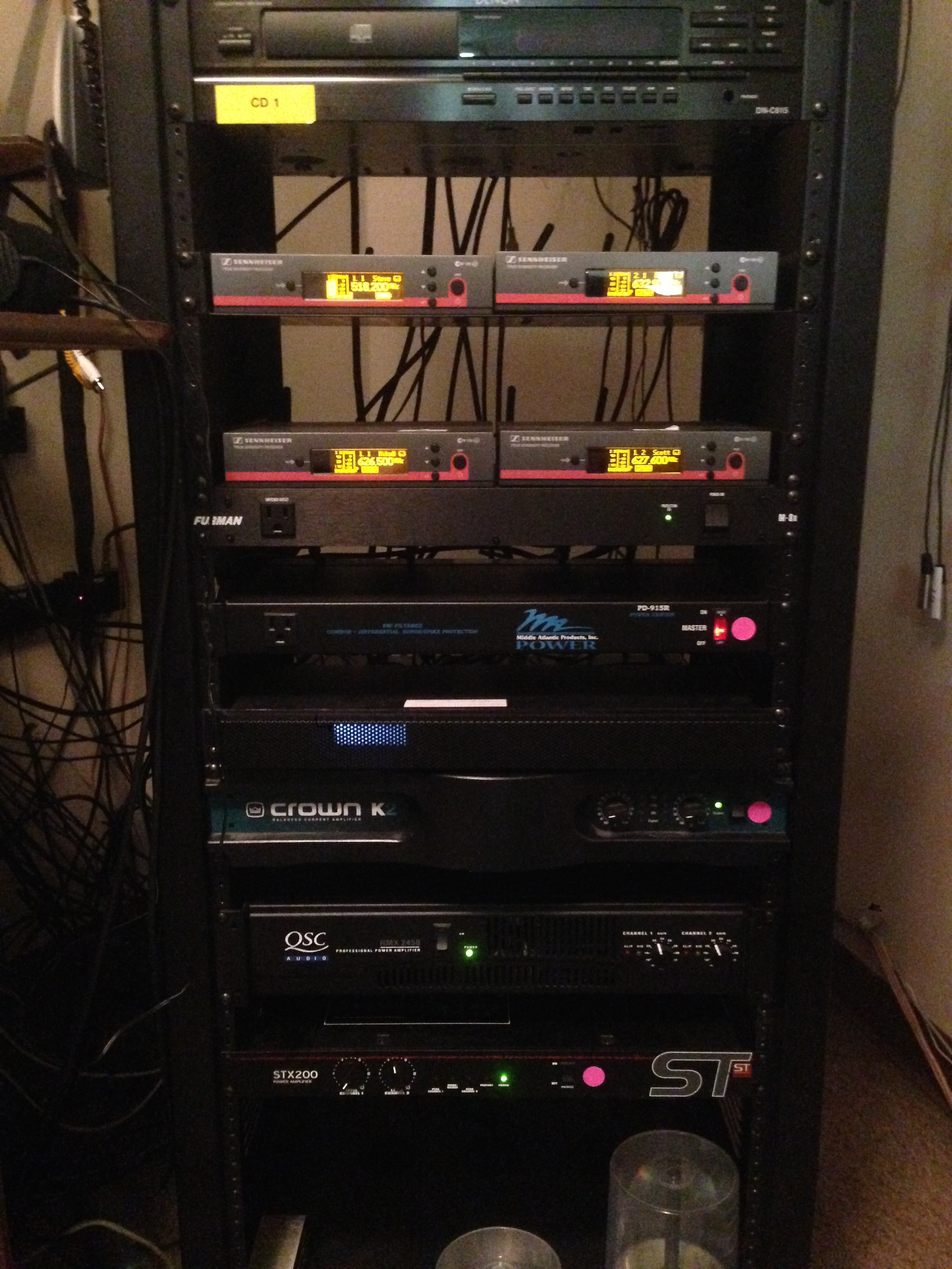
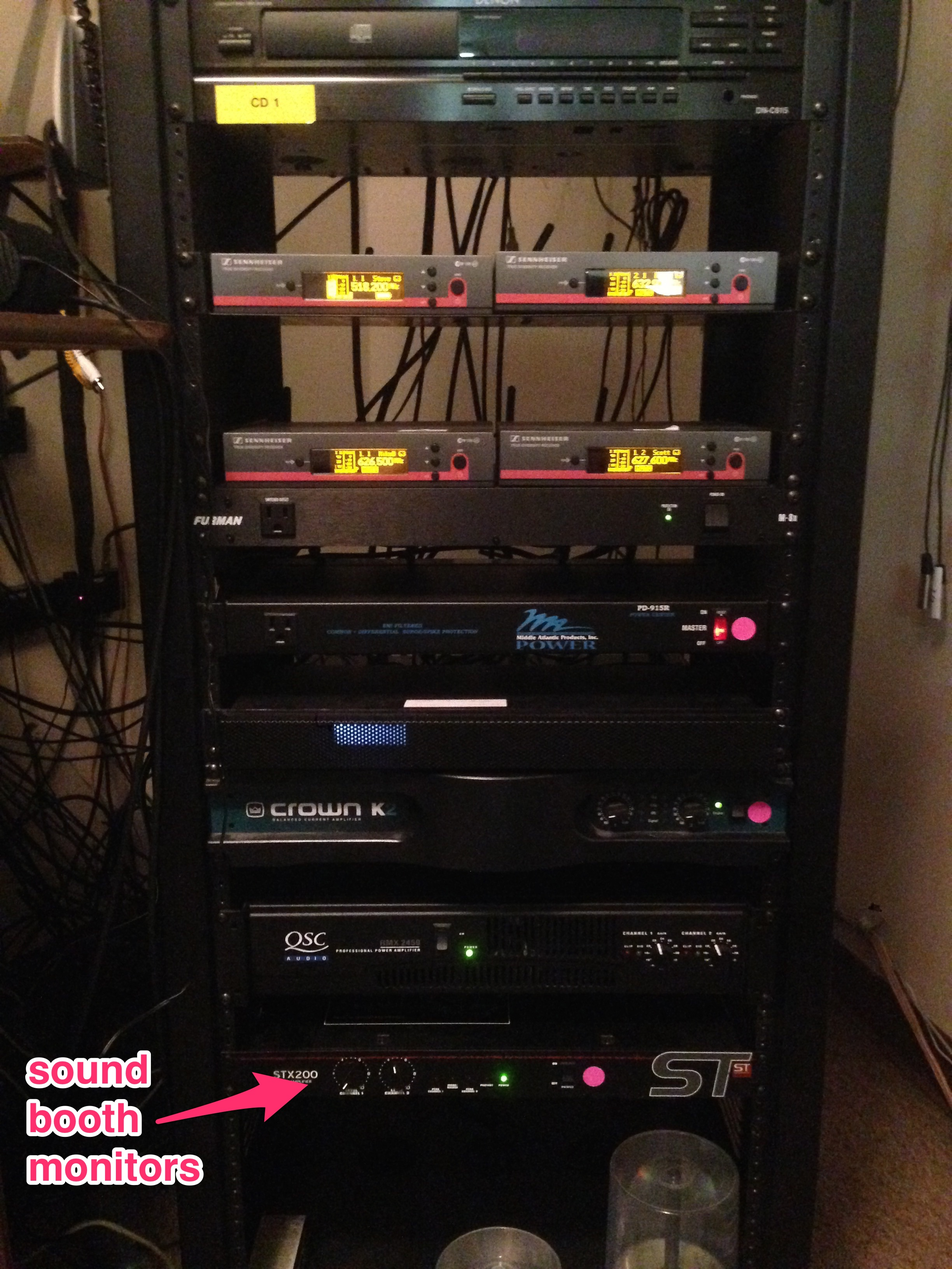
Add an "audio basics" manual

Changed region(s): [[0.031, 0.8125, 0.2173, 0.9375], [0.2173, 0.8438, 0.3105, 0.875]]

diff --git a/_manuals/sound-board.md b/_manuals/sound-board.md
@@ -1,0 +1,25 @@
+---
+title: "Audio basics"
+---
+
+## Sound Board
+
+We have a Mackie 1604-VLZ PRO sound board ([pdf manual](http://www.mackie.com/pdf/1604vlzpro_om.pdf)).
+The sound board controls volume to the camera, the stage monitors, the booth monitors, and the main speakers.
+
+<img src="/images/sound-board.jpg" class="img-responsive">
+
+The aux lines are connected as follows:
+
+* 1 - stage monitors
+* 3 - video camera
+
+I highly recommend that you read through the manual at least once. It's a fun read, even if you are relatively new to audio mixing.
+
+## Rack
+
+<img src="/images/rack.jpg" class="img-responsive">
+
+The main thing that you need to do with the rack is to turn everything on. Most of the power switches have round purple stickers next to them.
+
+One knob that you may want to adjust is on the bottom amp. One of the channels is the booth monitors. If you want to only monitor with the headphones, turn the speakers down here. If you want to hear the mix over the booth speakers, turn up this amp.
